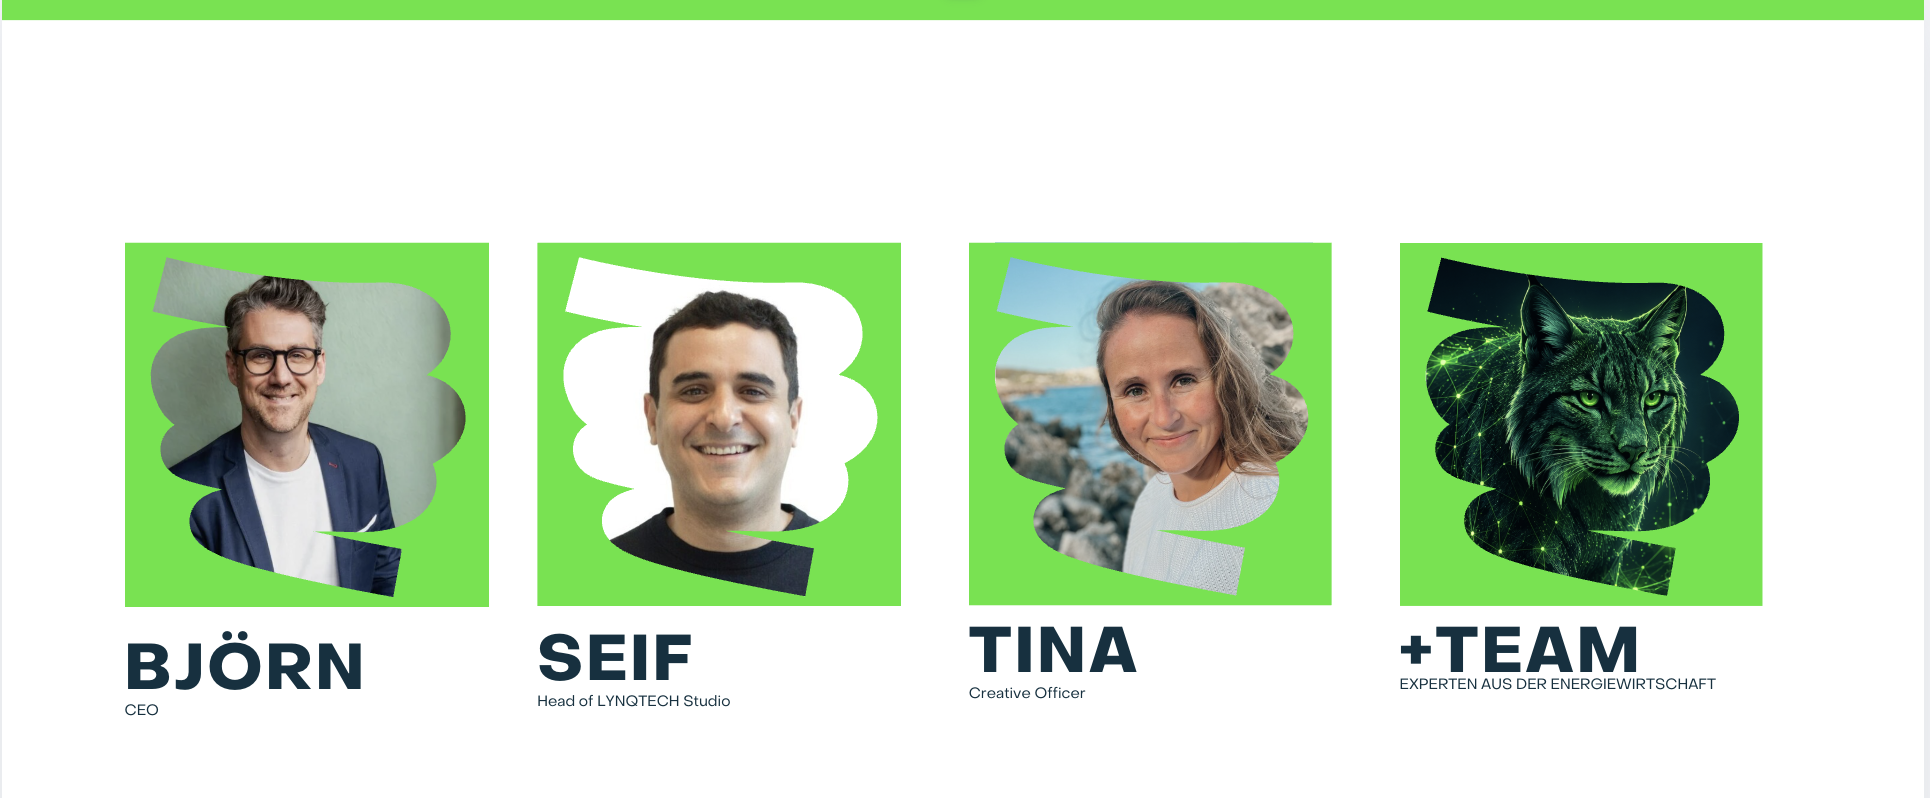
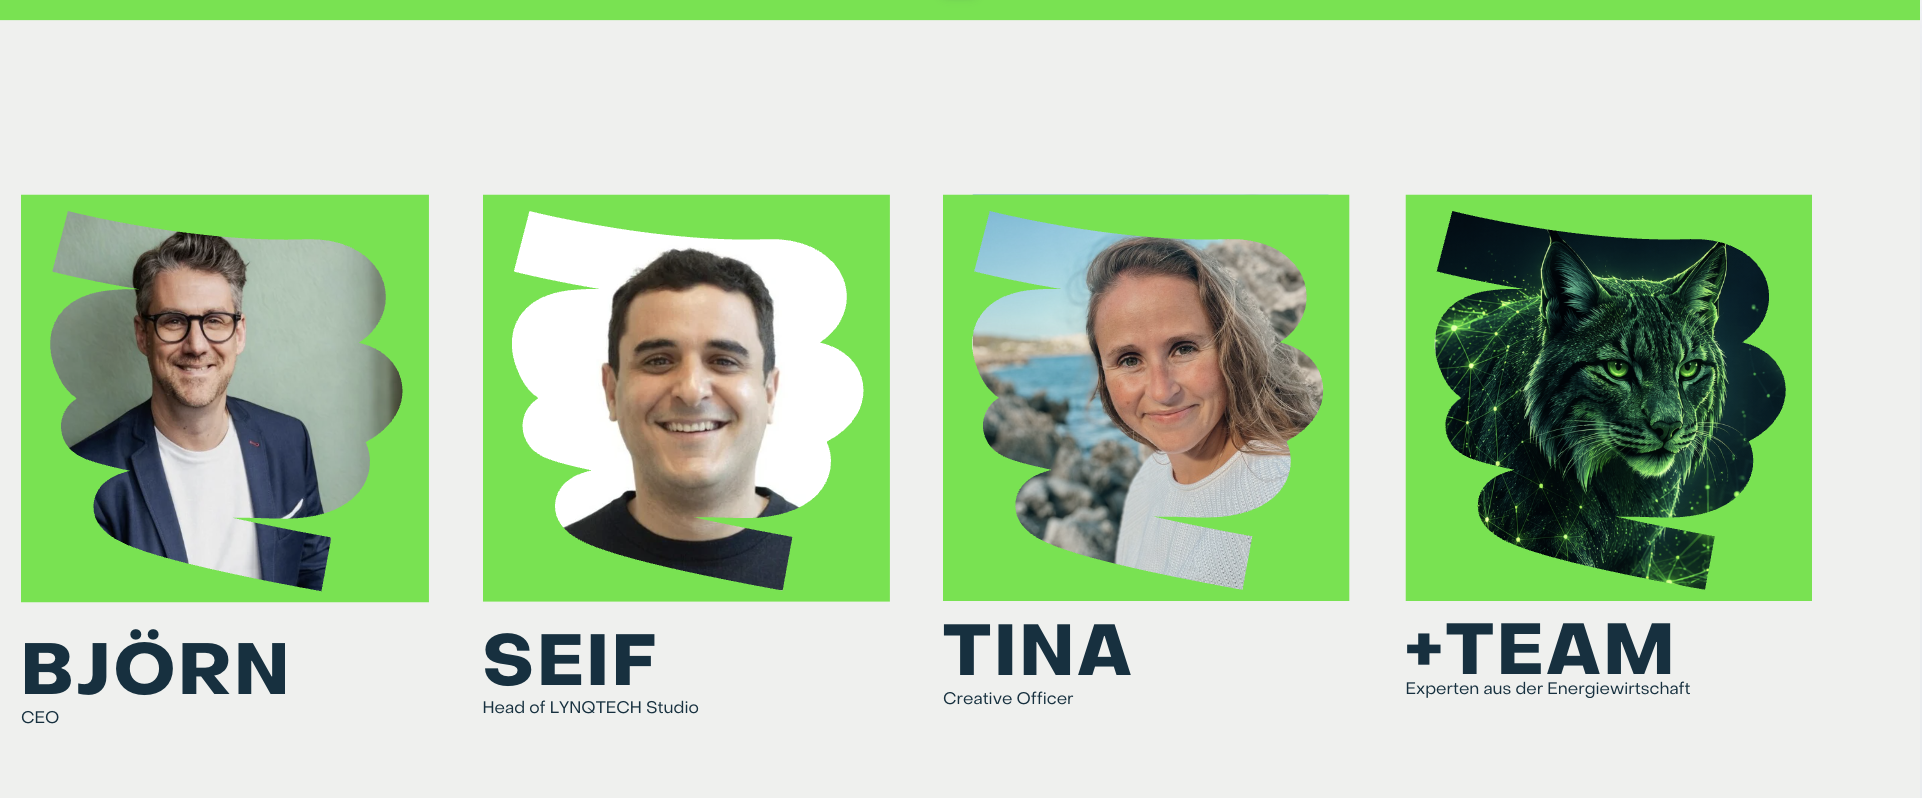
update

diff --git a/index.html b/index.html
@@ -17,9 +17,9 @@
     --lynq-blue-deep: #06202a;
 
     /* Surfaces */
-    --lynq-bg: #ffffff;
-    --lynq-surface-1: #fafbfc;
-    --lynq-surface-2: #f4f6f7;
+    --lynq-bg: #f5f7f4;
+    --lynq-surface-1: #edf0ee;
+    --lynq-surface-2: #e6e9e7;
 
     /* Text */
     --lynq-text-primary: #0c3140;
@@ -532,6 +532,62 @@
   .section-light { background: var(--lynq-bg); }
   .section-alt { background: var(--lynq-surface-1); }
 
+  /* Sektion-Trenner Bild */
+  .section-trenner {
+    width: 100%;
+    line-height: 0;
+    background: var(--lynq-bg);
+  }
+  .section-trenner-img {
+    width: 100%;
+    height: auto;
+    display: block;
+  }
+
+  /* Wirkung — vollbreitiges Bild, nahtlos angrenzend */
+  #why       { padding-bottom: 0; }
+  #ergebnisse { padding-top: 0; }
+  .wirkung-section {
+    padding: 40px 0;
+    margin: 0;
+    width: 100%;
+    overflow: hidden;
+    line-height: 0;
+    display: block;
+    background: var(--lynq-bg);
+  }
+  .wirkung-wrap {
+    position: relative;
+    line-height: 0;
+  }
+  .wirkung-img {
+    width: 100%;
+    height: auto;
+    display: block;
+    object-fit: cover;
+  }
+  .wirkung-cta-overlay {
+    position: absolute;
+    bottom: 14%;
+    left: 4%;
+    width: 22%;
+    height: 9%;
+    border-radius: 100px;
+    cursor: pointer;
+  }
+  @media (max-width: 768px) {
+    .wirkung-img {
+      max-height: 60vw;
+      object-position: center center;
+    }
+    .wirkung-cta-overlay {
+      width: 44%;
+      height: 7%;
+      bottom: 12%;
+      left: 4%;
+    }
+  }
+
   /* ------------ CO-CREATION GRID ------------ */
   .grid-4 {
     display: grid;
@@ -830,8 +886,8 @@
 
   /* ------------ CO-CREATION + WAS IHR BEKOMMT ------------ */
   .benefits {
-    background: var(--lynq-blue);
-    color: #fff;
+    background: var(--lynq-bg);
+    color: var(--lynq-blue);
     position: relative;
     overflow: hidden;
   }
@@ -840,17 +896,26 @@
   .benefits .container { position: relative; z-index: 1; padding: 96px 0; }
   .benefits .section-header h2 { color: #fff; }
   .hook-intro { padding-bottom: 16px; }
-  .hook-intro h1 {
-    color: #fff;
-    max-width: 900px;
-    margin: 0 0 36px;
-    letter-spacing: -0.025em;
+  .hook-intro-wrap {
+    position: relative;
+    display: inline-block;
+    width: 100%;
+    max-width: 680px;
   }
-  .hook-intro h1 .accent {
-    background: linear-gradient(135deg, #47e530 0%, #8fff7a 100%);
-    -webkit-background-clip: text;
-    background-clip: text;
-    -webkit-text-fill-color: transparent;
+  .hook-intro-img {
+    width: 100%;
+    height: auto;
+    display: block;
+  }
+  /* Unsichtbarer klickbarer Bereich über dem CTA-Button im SVG */
+  .hook-intro-cta-overlay {
+    position: absolute;
+    top: 62%;
+    left: 3%;
+    width: 32%;
+    height: 11%;
+    border-radius: 100px;
+    cursor: pointer;
   }
 
   /* Helle Karte für "Was Sie bekommen" — Post-its im Hintergrund */
@@ -862,22 +927,41 @@
     padding: 56px 64px;
     overflow: hidden;
   }
-  .adv-section::before {
-    content: "";
-    position: absolute;
-    top: 50%;
-    left: 50%;
-    transform: translate(-50%, -50%);
-    width: 85%;
-    aspect-ratio: 4 / 3;
-    background: url('Post its grün blau.png') center / contain no-repeat;
-    opacity: 0.13;
-    pointer-events: none;
-    z-index: 0;
-  }
   .adv-section .adv-wrap {
     position: relative;
     z-index: 1;
+  }
+
+  /* Post-its Dekoration: linkes Drittel, obere 40% der Benefits-Sektion */
+  .postits-scatter {
+    position: absolute;
+    inset: 0;
+    pointer-events: none;
+    z-index: 0;
+  }
+  .postit {
+    position: absolute;
+    width: 120px;
+    height: 120px;
+    background: url('Post its grün.png') center / contain no-repeat;
+    box-shadow: 4px 6px 12px rgba(0,0,0,.15);
+  }
+  .postit::before {
+    content: "";
+    position: absolute;
+    top: 0; left: 0; right: 0;
+    height: 4px;
+    background: rgba(0,0,0,.18);
+    border-radius: 2px 2px 0 0;
+  }
+  /* Individuelle Positionen + Rotationen (linkes Drittel, obere 40%) */
+  .postit-1 { top:  5%; left:  3%; transform: rotate(-6deg); }
+  .postit-2 { top: 14%; left: 21%; transform: rotate( 8deg); }
+  .postit-3 { top:  2%; left: 27%; transform: rotate(-3deg); }
+  .postit-4 { top: 27%; left:  5%; transform: rotate(10deg); }
+  .postit-5 { top: 33%; left: 19%; transform: rotate(-8deg); }
+  @media (max-width: 768px) {
+    .postit { width: 80px; height: 80px; }
   }
 
   /* Co-Creation + Vorteile: Split-Layout (Header links sticky, Content rechts) */
@@ -935,7 +1019,7 @@
   /* Trenner */
   .benefits-divider {
     height: 1px;
-    background: linear-gradient(90deg, transparent 0%, rgba(255,255,255,.18) 50%, transparent 100%);
+    background: linear-gradient(90deg, transparent 0%, rgba(12,49,64,.14) 50%, transparent 100%);
     margin: 96px 0;
   }
 
@@ -1010,6 +1094,22 @@
     background: var(--lynq-surface-1);
     padding: 96px 0;
     text-align: left;
+    position: relative;
+    overflow: hidden;
+  }
+  .about-trenner-bg {
+    position: absolute;
+    top: 0;
+    left: 0;
+    width: 100%;
+    height: auto;
+    display: block;
+    pointer-events: none;
+    z-index: 0;
+  }
+  .about-section .container {
+    position: relative;
+    z-index: 1;
   }
   .about-content {
     max-width: 720px;
@@ -1731,20 +1831,24 @@ Genau hier setzt der <strong>LYNQTECH AI Sprint</strong> an: In fünf Tagen brin
   </div>
 </section>
 
-<!-- ============= NACHHALTIGE WIRKUNG + KONKRETE ERGEBNISSE ============= -->
-<section class="benefits" id="benefits">
+
+
+
+<!-- ============= WIRKUNG ============= -->
+<section class="wirkung-section">
+  <div class="wirkung-wrap">
+    <img src="Wirkung.png"
+         alt="Nachhaltige Wirkung statt kurzfristigem Wow-Effekt"
+         class="wirkung-img">
+    <a href="mailto:[email redacted]?subject=Anfrage%20zur%20AI%20Sprintwoche"
+       class="wirkung-cta-overlay"
+       aria-label="Sprintwoche buchen"></a>
+  </div>
+</section>
+
+<!-- ============= WAS SIE BEKOMMEN ============= -->
+<section class="section-alt" id="ergebnisse">
   <div class="container">
-    <div class="hook-intro">
-      <h1>
-        Nachhaltige Wirkung,<br>
-        <span class="accent">statt kurzfristigem<br>"Wow-Effekt".</span>
-      </h1>
-      <a href="mailto:[email redacted]?subject=Anfrage%20zur%20AI%20Sprintwoche" class="btn-tape xl">
-        Sprintwoche buchen
-      </a>
-    </div>
-    <div class="benefits-divider"></div>
-    <div class="adv-section">
     <div class="adv-wrap">
       <div class="adv-header">
         <span class="eyebrow">Was Sie bekommen</span>
@@ -1775,7 +1879,7 @@ Genau hier setzt der <strong>LYNQTECH AI Sprint</strong> an: In fünf Tagen brin
             <svg width="24" height="24" viewBox="0 0 24 24" fill="none" stroke="currentColor" stroke-width="2.5" stroke-linecap="round" stroke-linejoin="round" aria-hidden="true"><polyline points="20 6 9 17 4 12"></polyline></svg>
           </span>
           <div class="adv-content">
-            <h3>Security & Compliance Review</h3>
+            <h3>Security &amp; Compliance Review</h3>
             <p>Gemeinsam stellen wir die wichtigen Fragen, damit es keine Überraschung kurz vor dem Go-Live gibt.</p>
           </div>
         </li>
@@ -1793,17 +1897,14 @@ Genau hier setzt der <strong>LYNQTECH AI Sprint</strong> an: In fünf Tagen brin
             <svg width="24" height="24" viewBox="0 0 24 24" fill="none" stroke="currentColor" stroke-width="2.5" stroke-linecap="round" stroke-linejoin="round" aria-hidden="true"><polyline points="20 6 9 17 4 12"></polyline></svg>
           </span>
           <div class="adv-content">
-            <h3>Dokumentation & Knowhow-Transfer</h3>
+            <h3>Dokumentation &amp; Knowhow-Transfer</h3>
             <p>Sie bleiben unabhängig und erhalten eine strukturierte Übergabe nach der AI Sprintwoche.</p>
           </div>
         </li>
       </ul>
     </div>
-    </div><!-- /adv-section -->
   </div>
 </section>
-
-
 
 <!-- ============= UNSER VORGEHEN ============= -->
 <section class="section-alt" id="vorgehen">
@@ -1908,6 +2009,7 @@ Genau hier setzt der <strong>LYNQTECH AI Sprint</strong> an: In fünf Tagen brin
 
 <!-- ============= ABOUT / KUNDEN ============= -->
 <section class="about-section" id="philosophie">
+  <img src="Trenner.png" alt="" class="about-trenner-bg" aria-hidden="true">
   <div class="container">
     <div class="about-content">
       <span class="eyebrow">Philosophie</span>